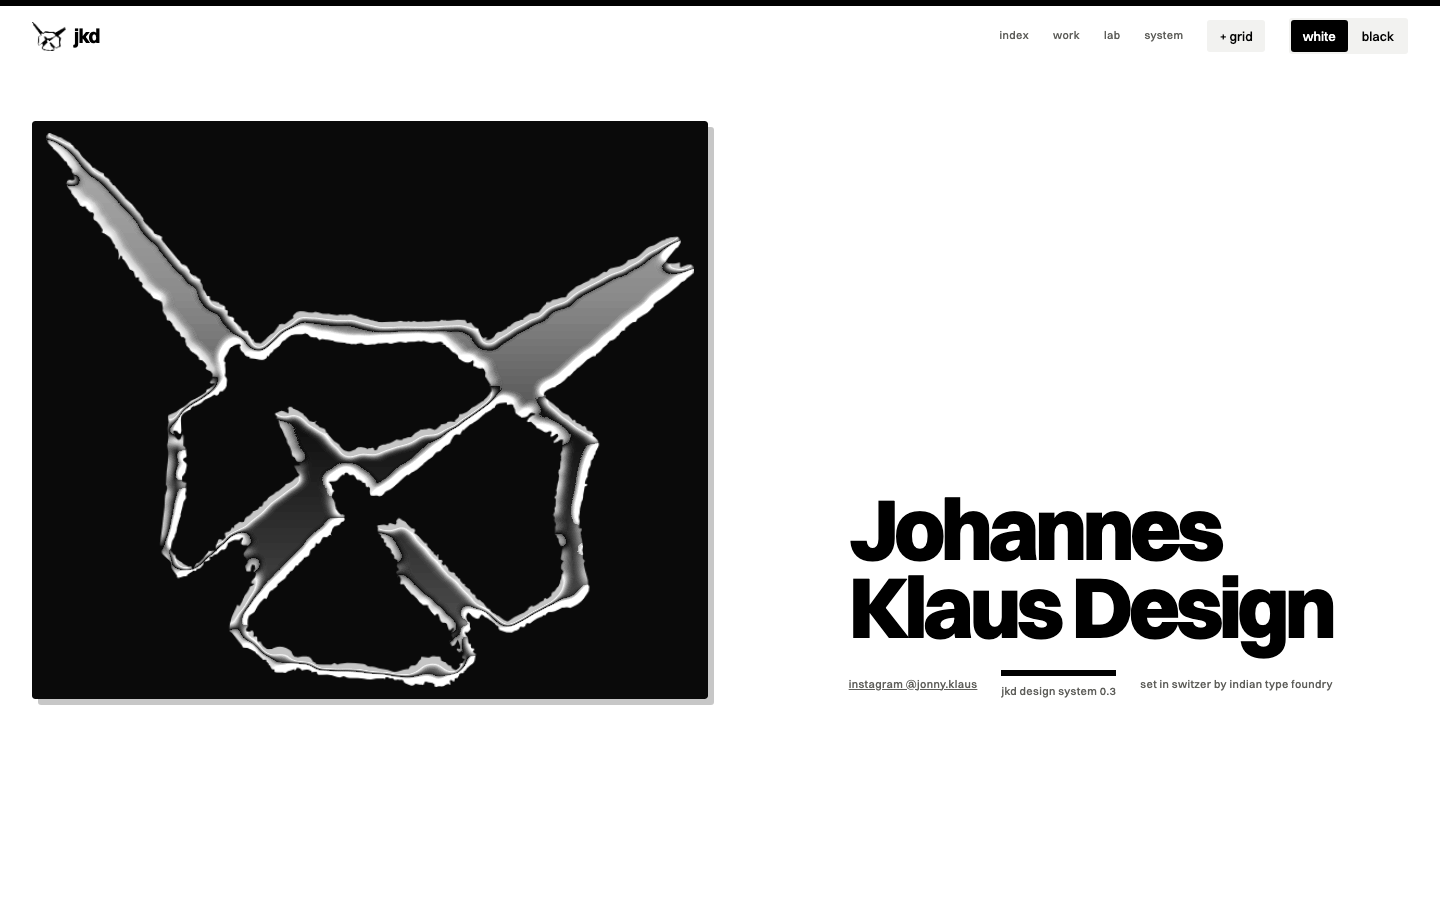
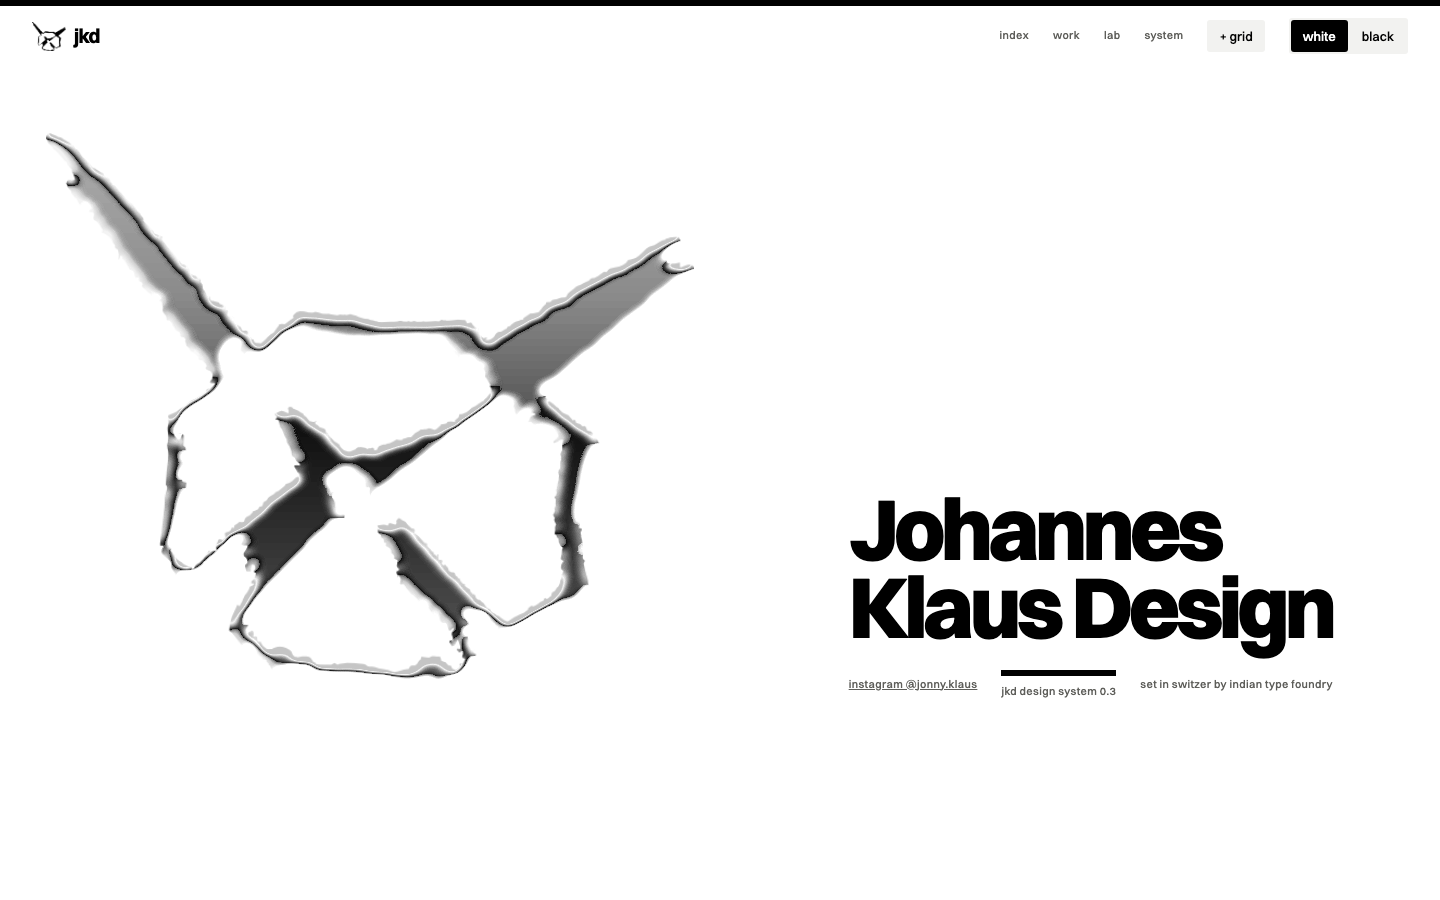
README screenshots and changelog brought up to date (0.4)

Changed region(s): [[0.0, 0.1244, 0.5, 0.8089]]

diff --git a/README.md b/README.md
@@ -61,7 +61,7 @@ readable type when nothing moves.
 
 | | |
 | --- | --- |
-| ![The system: the white or black switch, the Switzer scale, and each colour and button with what it is for](assets/site-system.png) | ![Footer: the brush mark in liquid chrome on a black plate, beside Johannes Klaus Design](assets/site-footer.png) |
+| ![The system: the white or black switch, the Switzer scale, and each colour and button with what it is for](assets/site-system.png) | ![Footer: the brush mark in liquid chrome, beside Johannes Klaus Design](assets/site-footer.png) |
 
 Run it: from the repository folder, `python3 -m http.server 8765`, then open
 `http://127.0.0.1:8765/examples/site/`. Opening `examples/site/index.html` directly
@@ -147,7 +147,7 @@ LICENSE              all rights reserved, and the font licences
 
 ## Versions
 
-Current: **0.3**. See [`CHANGELOG.md`](CHANGELOG.md). Primary and accent colours
+Current: **0.4**. See [`CHANGELOG.md`](CHANGELOG.md). Primary and accent colours
 are still to be chosen; until then they resolve to ink, so choosing them later
 changes one file.
 

diff --git a/CHANGELOG.md b/CHANGELOG.md
@@ -1,5 +1,14 @@
 # Changelog
 
+## 0.4.0 (14 Oct 2026)
+
+His second round. büro shows the table poster and a logotype exploration
+page; ALPS is its logo beside the flyer (the colour palette was not his);
+the yellow Technobar Vol. 13 poster joins; four type studies; experiments are
+the TouchDesigner fluid contours only, and their index preview plays the loop
+halftoned frame by frame; the city map is out. Logos keep light tiles on the
+black page. The footer mark is plain chrome, no plate, no outline.
+
 ## 0.3.0 (14 Oct 2026)
 
 His feedback on the showcase. Heavier bar at display sizes, a white or black
